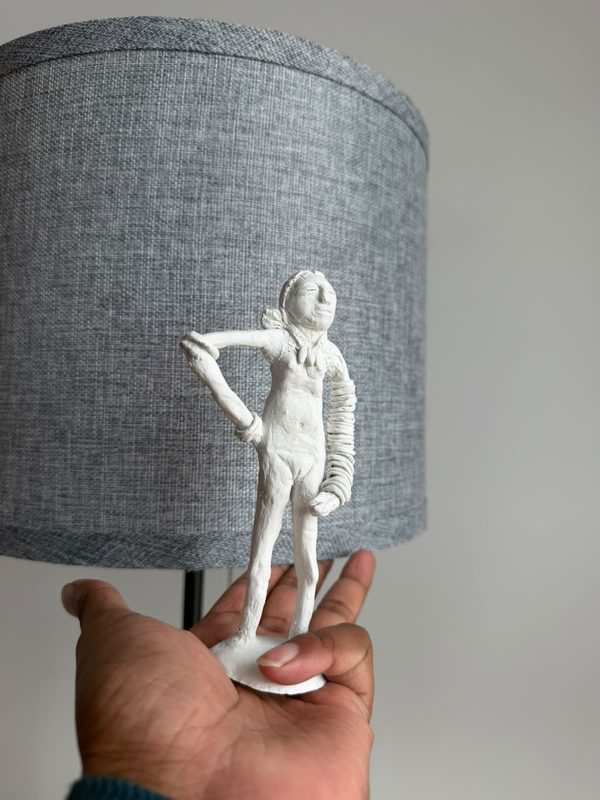
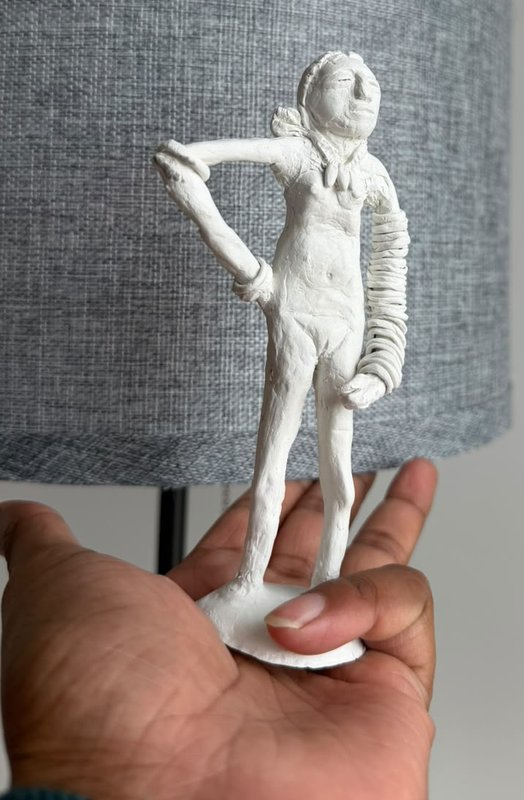
Recrop the sculpture and back upright shots with themselves
Rendered, the Dancing Girl card was mostly lampshade and wall: the
figure floated as a narrow strip in the middle of the frame with flat
gradient either side, which read as a broken image rather than a
deliberate one.

Recrops the photograph to the figure and the hand holding it -- the hand
earns its place, since the card claims the piece is small enough to
stand in one palm -- so the subject now fills the frame's height.

Contain still leaves bars either side of an upright shot, so the frame
now carries a blurred, darkened copy of the same photograph behind it,
passed in as --shot. The card reads as an object on a backdrop instead
of an image that failed to load.

Claude-Session: https://claude.ai/code/session_0195mw2YMxRNRn6HW8eSVibd

diff --git a/index.html b/index.html
@@ -559,8 +559,19 @@
     background:linear-gradient(135deg, rgba(168,85,247,0.22), rgba(236,72,153,0.16));
   }
   .work-media img{ width:100%; height:100%; object-fit:cover; transition:transform .5s ease; }
-  /* upright shots sit whole inside the frame instead of being cropped to it */
-  .work-media.upright img{ object-fit:contain; }
+  /* an upright shot sits whole inside the frame instead of being cropped to
+     it, over a blurred copy of itself so the sides never read as dead space */
+  .work-media.upright{ position:relative; }
+  .work-media.upright::before{
+    content:"";
+    position:absolute; inset:0;
+    background-image:var(--shot);
+    background-size:cover;
+    background-position:center;
+    filter:blur(20px) saturate(0.75) brightness(0.45);
+    transform:scale(1.2);
+  }
+  .work-media.upright img{ position:relative; object-fit:contain; }
   .work-card:hover .work-media img{ transform:scale(1.06); }
   .work-body{ padding:22px; display:flex; flex-direction:column; gap:8px; }
   .work-body .work-cat{
@@ -1068,8 +1079,8 @@
       </article>
 
       <article class="work-card" data-category="sculptures">
-        <div class="work-media upright">
-          <img src="assets/work/sculpture-1.jpg" alt="A hand-built clay rendition of the Dancing Girl of Mohenjo-daro — a standing figure with one hand set on her hip and the opposite arm stacked with bangles, held upright in an open palm" width="600" height="800" loading="lazy" decoding="async">
+        <div class="work-media upright" style="--shot:url('assets/work/sculpture-1.jpg')">
+          <img src="assets/work/sculpture-1.jpg" alt="A hand-built clay rendition of the Dancing Girl of Mohenjo-daro — a standing figure with one hand set on her hip and the opposite arm stacked with bangles, held upright in an open palm" width="524" height="800" loading="lazy" decoding="async">
         </div>
         <div class="work-body">
           <p class="work-cat">Sculptures</p>
